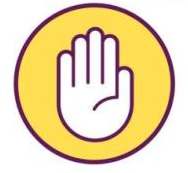
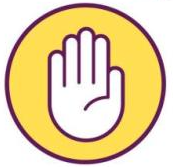
removed duplicated image and did some minor adjustments

Changed region(s): [[0.0, 0.0, 0.9827, 0.988], [0.4913, 0.0, 0.6358, 0.0599], [0.7514, 0.7186, 0.7803, 0.7485]]

diff --git a/index.html b/index.html
@@ -31,18 +31,25 @@
             </div>
             <div class="choices">
                 <div class="choice" id="rock">
-                    <img src="./img/rockk.png" alt="Rock image">
+                    <img src="./img/rock.png" alt="Rock image">
                 </div>
                 <div class="choice" id="paper">
-                    <img src="./img/paperr.png" alt="Paper image">
+                    <img src="./img/paper.png" alt="Paper image">
                 </div>
                 <div class="choice" id="scissors">
-                    <img src="./img/scissorss.png" alt="">
+                    <img src="./img/scissors.png" alt="">
                 </div>
             </div>
             <div id="action-message" class="action">
                 <p>Try your luck!</p>
             </div>
+            <div class="footer">
+                <div class="footer-container">
+                  <div class="footer-copyright">
+                    <p>Copyright &copy;</p>
+                  </div>
+                </div>
+              </div>
         </main>
     </div>
     <script src="game.js" charset="UTF-8"></script>

diff --git a/style.css b/style.css
@@ -115,7 +115,25 @@ header h1 {
   .action {
     margin-top: 24px;
     margin-bottom: 24px;
-    font-size: 24px;
+    font-size: 36px;
     color: white;
     font-weight: bold;
+    padding-top: 16px;
+    padding-bottom: 16px;
+  }
+
+  .footer {
+    height: 120px;
+  }
+
+  .footer-container {
+    margin-top: 24px;
+    margin-bottom: 24px;
+  }
+
+  .footer-copyright {
+    padding-top: 24px;
+    padding-bottom: 24px;
+    color: white;
+    font-size: 16px;
   }
